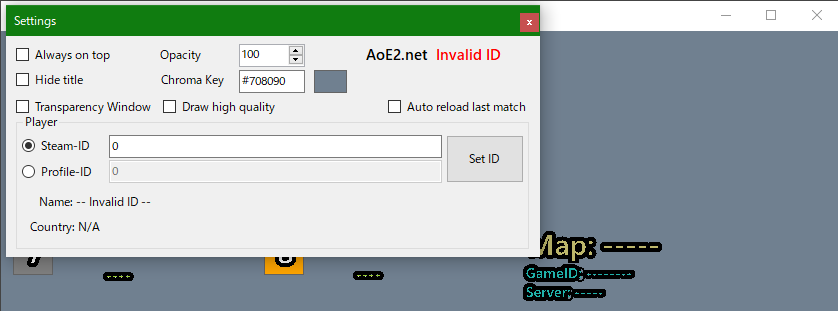
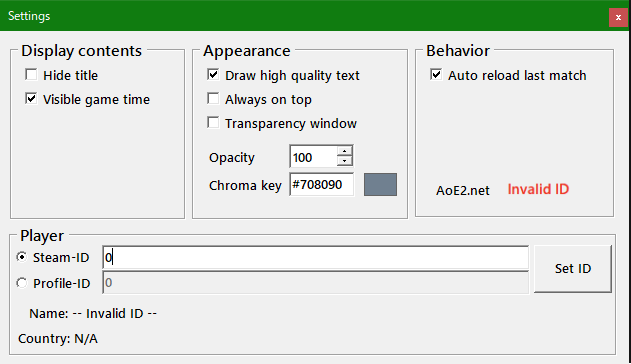
update manual for v0.7.0

diff --git a/docs/index.md b/docs/index.md
@@ -52,7 +52,7 @@ The software uses the .Net 6.0 runtime, so if it does not work, please install t
 
 ![InitialSetting](:InitalSetting.png "InitialSetting")
 
-3: Set correct ID, AoE2.net status will change to <span style = "color: green">**Online**</span>.
+3: Set correct ID, and AoE2.net status will change to <span style = "color: green">**Online**</span>.
 
 _If [AoE2.net](https://aoe2.net/ "AoE2.net") is available, you can use this app._
 
@@ -79,20 +79,23 @@ And you can perform the following on the window.
 
 ## Mouse operation
 
-| Operation method | Area                    | Operation content                                |
-| ---------------- | ----------------------- | ------------------------------------------------ |
-| Right-click      | In the window           | Show context menu                                |
-| Double-click     | Player name             | Display the history window of the clicked player |
-| Drag             | Text/image display area | Window movement                                  |
+| Area                    | Operation    | Operation content                                              |
+| ----------------------- | ------------ | -------------------------------------------------------------- |
+| In the window           | Right-click  | Show context menu.                                             |
+| Player name             | Double-click | Display the history window of the clicked player.              |
+| Map                     | Double-click | Updated match information on the main window. (same as F5 key) |
+| Text/image display area | Drag         | Window movement.                                               |
 
-## Keyboard operation
+## Shortcut key
 
-| Operation method          | Operation details                                                   |
+| Operation                 | Operation details                                                   |
 | ------------------------- | ------------------------------------------------------------------- |
 | Alt + F4                  | Exit the application.                                               |
 | F5                        | Updated match information on the main window.                       |
 | Alt + cursor keys         | Scale window in 10-pixel increments in the direction of the cursor. |
 | Alt + Shift + Cursor Keys | Scale window in 1-pixel inclement in the direction of the cursor.   |
+| Shift + Space             | Toggle the "Hide title" option.                                     |
+| Alt + Space               | disable the "Hide title" option and shows the window context menu.  |
 
 ## Context menu
 
@@ -114,15 +117,15 @@ Right-click to display the context menu.
 The match history of the player with the set ID is displayed.  
 Select the leaderboard from the list and change the left list to the selected match type.  
 
-| Items        | Contents                                                                     |
-| ------------ | ---------------------------------------------------------------------------- |
-| Map          | Maps ever used.                                                              |
-| Rate         | The rate at the time of the match and the change value of the rate.          |
+| Items        | Contents                                                                      |
+| ------------ | ----------------------------------------------------------------------------- |
+| Map          | Maps ever used.                                                               |
+| Rate         | The rate at the time of the match and the change value of the rate.           |
 | Win          | Shows the status of victory or defeat <br> "〇" is given to the winning game. |
-| Civilization | civilization ever used.                                                      |
-| Color        | player color number.                                                         |
-| Date         | Date and time of the match.                                                  |
-| Version      | Software version of the AoE2DE.                                              |
+| Civilization | civilization ever used.                                                       |
+| Color        | player color number.                                                          |
+| Date         | Date and time of the match.                                                   |
+| Version      | Software version of the AoE2DE.                                               |
 
 The right graph shows the win or loss.  
 Select "Data source" to switch between civilization and map.  
@@ -192,17 +195,29 @@ Set the window settings and user settings.
 
 ![Settings](:settings.png "Settings")
 
-## Display settings
+## Display contents
 
-| Items                      | Contents                                                    |
-| -------------------------- | ----------------------------------------------------------- |
-| Always on top              | Set the main window always front.                           |
-| Hide title                 | Hides the title bar of the main window.                     |
-| Transparency window        | Set the main window background transparent.                 |
-| Opacity                    | Set text and background transparency of the main window.    |
-| Chroma key                 | As chroma key, set the background color of the main window. |
-| Draw high quality          | Sets the text drawing quality.                              |
-| Auto reload the last match | Reload the current match information automatically.         |
+| Items             | Contents                                                                                                                                                    |
+| ----------------- | ----------------------------------------------------------------------------------------------------------------------------------------------------------- |
+| Hide title        | Hides the title bar of the main window.                                                                                                                     |
+| Visible game time | It shows the game time started and elapsed.<br> It is the time obtained from the server.<br> So the time is forward from the actual time displayed in the game. |
+
+## Appearance
+
+| Items                  | Contents                                                    |
+| ---------------------- | ----------------------------------------------------------- |
+| Draw high quality text | Sets the text drawing quality.                              |
+| Always on top          | Set the main window always front.                           |
+| Transparency window    | Set the main window background transparent.                 |
+| Opacity                | Set text and background transparency of the main window.    |
+| Chroma key             | As chroma key, set the background color of the main window. |
+
+## Behavior
+
+| Items                      | Contents                                                         |
+| -------------------------- | ---------------------------------------------------------------- |
+| Auto reload the last match | Reload the current match information automatically.              |
+| AoE2.Net [status]          | It shows [AoE2.net](https://aoe2.net/ "AoE2.net") Server status. |
 
 ## Player settings
 
